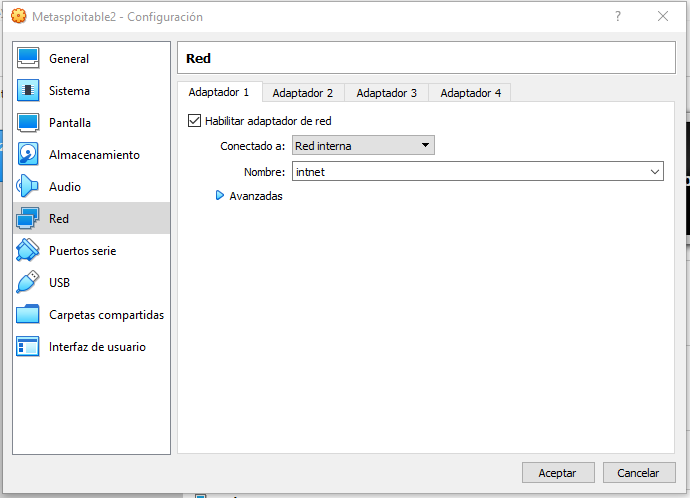
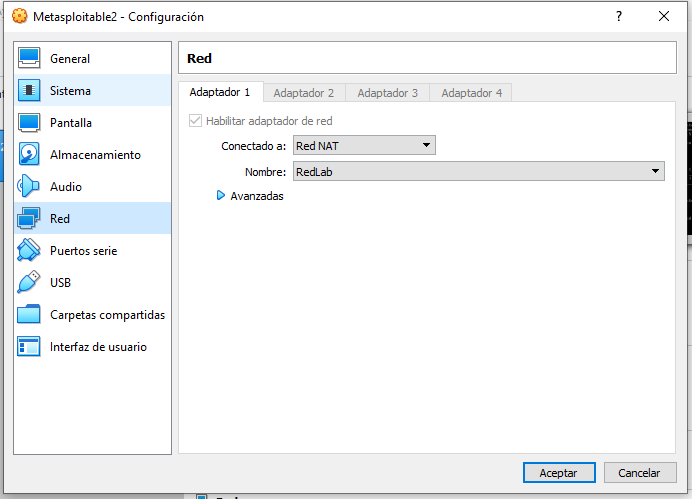
Massive Update

diff --git a/INSTALL_METASPLOITABLE.MD b/INSTALL_METASPLOITABLE.MD
@@ -1,5 +1,5 @@
 # Metasploitable
-Metasploitable es una máquina virtual que está diseñada para recibir ataques. Tiene programas vulnerables y muchas -malas configuraciones- a propósito para que puedas probara tus habilidades. Si bien está en internet la documentación de cómo atacarla será utilizada para enseñar algunas técnicas en el taller.
+Metasploitable es una máquina virtual que está diseñada para recibir ataques. Tiene programas vulnerables y muchas -malas configuraciones- a propósito para que puedas probar tus habilidades. Si bien está en internet la documentación de cómo atacarla será utilizada para enseñar algunas técnicas en el taller.
 
 Para este taller usaremos la máquina Metasploitable versión 2 (ya que la 3 ocupa otra tecnológia y complicaría de sobremanera el taller).
 
@@ -44,7 +44,7 @@ Al igual que en en la máquina virtual de Kali, vamos a especificar que la tarje
 
 ![](images/config_metasploitable.png)
 
-Ir a la **Opcion Red > (tab) Adaptador 1** y seleccionamos la opción ``Red Interna`` y dejaremos el nombre como ``intnet``.
+Ir a la **Opcion Red > (tab) Adaptador 1** y selecionaremos la opción ``Red NAT`` y seleccionamos "RedLab". (Si no te aparece, revisa la guía de [Guía de creación de red laboratorio](CREAR_LABNET.MD)).
 
 ![](images/eth0_metasploitable.PNG)
 
@@ -58,32 +58,12 @@ En este punto tenemos que logear en la máquina. Usa las siguientes credenciales
 * **Usuario:** msfadmin
 * **Password:** msfadmin
 
-Como esta sera nuestra máquina objetivo, necesitamos asignarle una dirección IP dentro de nuestra LAN. Para ello le pondremos una dirección IP estática y así usarla como objetivo posterior. Esta dirección debes ANOTARLA.
-
-Para establecer una dirección IP estática sigue los siguientes pasos. Usaré nano por la simplicidad, pero siéntete libre de usar VIM.
+Como esta sera nuestra máquina objetivo, saber que dirección IP nos asignó vía DHCP. Para ello lanzaremos el comando ``ifconfig`` y anotaremos la dirección IP en alguna parte.
 
 ```bash
-sudo nano /etc/network/interfaces
-```
-
-![](images/ifconfig_metasploitable.PNG)
-
-Dentro de este archivo, necesitamos editar desde la línea ``iface eth0 inet dhcp`` hacia abajo, reemplazandolo por lo siguiente:
-
-```bash
-iface eth0 inet static
-address 10.0.0.30
-netmask 255.255.255.0
-network 10.0.0.0
-broadcst 10.0.0.255
-dns-nameservers 8.8.8.8
-```
-
-Presionar ``CTRL + X`` y guardar los cambios. Ahora que establecimos la dirección estática, necesitamos reiniciar el adaptador de red.
-```bash
-sudo /etc/init.d/networking restart
+ifconfig
 ```
 
 ![](images/ifconfig_ready_metasploitable.PNG)
 
-Con esto la máquina queda lista para el laboratorio!
+En este caso asignó la dirección **10.0.30.4**, sin embargo es aleatorio. Anótala que servirá despues! Con esto la máquina queda lista para el laboratorio!

diff --git a/CONNECT_LAB.MD b/CONNECT_LAB.MD
@@ -1,0 +1,55 @@
+# Conectar el laboratorio
+En este punto de la guía, ya deberias tener la máquina de metasploitable lista y configurada para el laboratorio según la guía y también tu máquina Kali preparada con sus dos interfaces de red.
+
+Si no, pásate por aca:
+* Kali Linux - [Guía de instalación Kali Linux](INSTALL_KALI.MD)
+* Metasploitable v2 - [Guía de instalación Metasploitable](INSTALL_METASPLOITABLE.MD)
+
+# Resumen del laboratorio
+Si seguiste ambas guías vas a tener la siguiente estructura:
+
+![](images/network_map.PNG)
+
+Sin embargo, no hemos configurado aún la dirección estática del ``eth1`` dentro de la red. Así que iniciando sesión en nuestra máquina Kali (que según la guía tiene dos interfaces de red). Y escribiendo el comando ``ifconfig`` deberias ver lo siguiente:
+
+![](images/two_iface_kali.PNG)
+
+En la imagen fíjate que aparecen 3 interfaces: ``eth0``, ``eth1`` y ``lo``. Si tan solo te aparece **eth0** y **lo** es por que no has habilitado la segunda interfaz. En la configuración de tu máquina virtual Kali, habilita ``Adaptador 2`` y seleciona la opción **Red Interna** y dejalo linkeado a la intnet
+
+![](images/net_vbox.png)
+
+Si te pierdes sigue el paso **Paso 5: Configurar la red** de la [Guía de instalación Kali Linux](INSTALL_KALI.MD).
+
+Volviendo a la Máquina Kali, vamos a configurar la interfaz estática, tal como lo hicimos en la máquina Metasploitable.
+
+```bash
+sudo nano /etc/network/interfaces
+```
+
+Dentro de este archivo, necesitamos editar desde la línea ``iface lo inet loopback`` hacia abajo, reemplazandolo por lo siguiente:
+
+```bash
+auto eth1
+iface eth1 inet static
+address 10.0.0.20
+netmask 255.255.255.0
+network 10.0.0.0
+broadcst 10.0.0.255
+dns-nameservers 8.8.8.8
+```
+
+Debería quedar así.
+
+![](images/eth1_kali.PNG)
+
+Presionar ``CTRL + X`` y guardar los cambios. Ahora que establecimos la dirección estática, necesitamos reiniciar el adaptador de red.
+```bash
+/etc/init.d/networking restart
+```
+
+![](images/net_ready_kali.PNG)
+
+Ahora es necesario agregar la ruta para tener acceso y deberiamos poder pingear la otra máquina.
+
+# Probar conectividad entre las máquinas
+La máquina Kali deberia ahora poder tener acceso a la máquina metasploitable (debe estar encendida, es como obvio pero uno nunca sabe).

diff --git a/README.MD b/README.MD
@@ -8,9 +8,14 @@ En este primer taller se verá:
  * **Exploits Scripts** - Utilización de algunos scripts para explotar algunas vulnerabilidades.
  * **Metasploit** - Framework de explotación (la usaremos en su modo más simple).
 
-Para poder participar de este taller es necesario realizar un pre-laboratorio en el que se instalarán las máquinas virtuales necesarias para seguir el taller mientras se expone. Para realizar este taller es necesario contar con:
+Para poder participar de este taller es necesario realizar un pre-laboratorio en el que se instalarán las máquinas virtuales necesarias para seguir el taller mientras se expone. Para realizar este taller es necesario realizar tres pasos:
 
-* Kali Linux - [Guía de instalación Kali Linux](INSTALL_KALI.MD)
-* Metasploitable v2 - [Guía de instalación Metasploitable](INSTALL_METASPLOITABLE.MD)
+* **Paso 1:** Creacion red Laboratorio - [Guía de creación de red laboratorio](CREAR_LABNET.MD)
+* **Paso 2:** Kali Linux - [Guía de instalación Kali Linux](INSTALL_KALI.MD)
+* **Paso 3:** Metasploitable v2 - [Guía de instalación Metasploitable](INSTALL_METASPLOITABLE.MD)
+
+La arquitectura de red para este laboratorio es la siguiente:
+
+![](images/network_map.PNG)
 
 Asegurandonos de seguir ambas guias al pie de la letra podremos tener nuestro laboratorio listo y preparado!

diff --git a/INSTALL_KALI.MD b/INSTALL_KALI.MD
@@ -63,7 +63,7 @@ Con eso, al momento de iniciar la máquina virtual, iniciará el proceso de inst
 ## Paso 5: Configurar la red
 Para este laboratorio, usaremos la red interna de Virtualbox para la comunicación de las máquinas. Sin embargo, la máquina de Kali Linux necesita acceso a internet también (para poder descargar algunos paquetes en caso de ser necesario). Para ello, colocaremos dos tarjetas de red, una en formato NAT (para que tenga acceso a internet), y otra tarjeta con acceso a la red interna de VirtualBox llamada ``intnet``. Esta red solo puede ser visualizada por las máquinas virtuales, de esta forma protegeremos nuestro laboratorio de intrusos no deseados.
 
-Para esto, ir a la sección **Opción Red**. El ``Adaptador 1`` lo dejaremos tal cual está. Iremos al segundo adaptador (``Adaptador 2``). Selecionaremos la opción ``Red Interna`` y dejaremos el nombre como ``intnet``.
+Para esto, ir a la sección **Opción Red**. El ``Adaptador 1`` lo dejaremos tal cual está. Iremos al segundo adaptador (``Adaptador 2``). Selecionaremos la opción ``Red NAT`` y seleccionamos "RedLab". (Si no te aparece, revisa la guía de [Guía de creación de red laboratorio](CREAR_LABNET.MD)).
 
 ![](images/net_vbox.png)
 

diff --git a/CREAR_LABNET.MD b/CREAR_LABNET.MD
@@ -1,0 +1,13 @@
+# Creacion de red de laboratorio
+Para que las máquinas dentro de nuestra red de laboratorio puedan verse, es necesario colocarlas dentro de una misma red. Para ello es necesario abrir Virtualbox y seleccionar arriba **Archivo > Preferencias** y apretar el boton con el símbolo más.
+
+![](images/netcreate_vbox.PNG)
+
+Esto creará automáticamente una red llamada NatNetwork. Selecionala y haz doble click para editarla y configurala de la siguiente forma
+* **Nombre de red:** RedLab
+* **Red CIDR:** 10.0.30.0/24
+* **Opciones de red:** Soporta DHCP (Check)
+
+Presiona aceptar y estará listo nuestro entorno privado para las máquinas.
+
+![](images/redlab_vbox.PNG)
